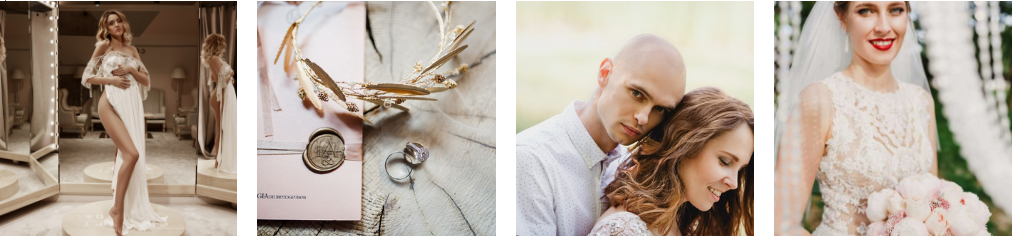
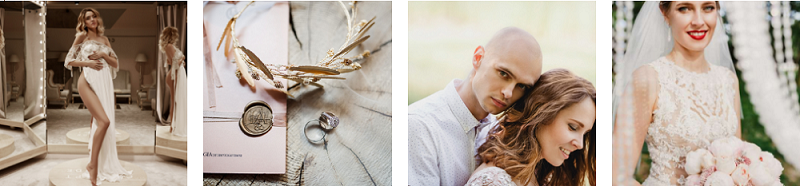
burn

diff --git a/styles.css b/styles.css
@@ -84,6 +84,9 @@ nav{
 	background-size: cover;
 	background-position: bottom;
 	background-repeat: no-repeat;
+	text-align: center;
+
+	
 }
 .top-slide h2{
 	background: #F5F5F5;
@@ -101,14 +104,16 @@ nav{
 
 .bg1{
 	width: 100%;
-	height: 500px;
+	height: 520px;
 	background: #ffffff;
+	text-align: center;
     
 }
 .bg2{
 	width: 100%;
 	height: 400px;
     background: #DCDCDC;  
+    text-align: center;
 }
 .bg3{
 	width: 100%;
@@ -126,8 +131,10 @@ nav{
 	background: #D3D3D3; 
 }
 .me{
-	margin-top: -380px;
-	margin-left: 880px;
+	margin-top: -320px;
+	margin-left: 1000px;
+	text-align: left;
+	float: left;
 }
 .top-slide4 h2{
 	background: #F5F5F5;
@@ -199,11 +206,13 @@ nav{
 }
 .social {
 	font-size: 15px;
-	margin-left: 640px;
+	margin-left: 720px;
 }
 .port {
 	margin-top: 30px;
-	margin-left: 120px;
+	margin-left: 0px;
+	text-align: center;
+	width: 100%;
 }
 .text-port{
 	font-size: 15px;
@@ -216,16 +225,17 @@ nav{
 }
 .me21{
 	margin-top: 0px;
-	margin-left: 550px;
+	margin-left: 0px;
+	text-align: center;
 }
 .me222{
-	margin-top: 30px;
+	margin-top: 20px;
 	border-radius: 100px;
 	box-shadow: 0 0 7px #666;
 }
 
 .text-port2{
-	margin-top: 30px;
+	margin-top: 10px;
 	text-shadow: 0 0 7px #666;
 }
 .text-port1{
@@ -233,4 +243,22 @@ nav{
 }
 .text-port19{
 	line-height: 3;
+}
+.flexible-image{
+	max-width: 100%;
+}
+
+img {
+  max-width: 100%;
+  display: inline-block;
+
+@media (min-width: 420px) {
+  img {
+    max-width: 48%;
+  }
+}
+@media (min-width: 760px) {
+  img {
+    max-width: 24%;
+  }
 }

diff --git a/index.html b/index.html
@@ -6,9 +6,9 @@
 	<link href="https://fonts.googleapis.com/css?family=Poppins" rel="stylesheet">
 	<link rel="stylesheet" href="https://use.fontawesome.com/releases/v5.1.0/css/all.css" integrity="sha384-lKuwvrZot6UHsBSfcMvOkWwlCMgc0TaWr+30HWe3a4ltaBwTZhyTEggF5tJv8tbt" crossorigin="anonymous">
 	<link rel="stylesheet" href="styles.css">
+	<meta>
 </head>
-<body>
-
+<body class="body2"> 
 <header>
 	<div class="header-container">
 		<div class="logo">
@@ -37,9 +37,7 @@
 		<div><h2>PHOTOGRAPHER</h2></div> 
 		<div><p>Enjoy every moment for life</p></div>
 		</section>
-<div class="me">
-			<img src="img/i.png" alt="me">
-	 	</div>
+      
 	 	<div class="wrapper-scroll-btn">
     <span>
         <span class="scrollup-btn">Вверх</span>
@@ -54,7 +52,7 @@
 			               
 	 	                 </div>
 	 	                 <div class="me21">
-			               <img src="img/plus.png" alt="me21">
+			               <img src="img/plus1.png" alt="me21">
 	 	                 </div>
                          <div class="text-port1">
                          <h2 align="center">Hello, I'm ANASTASIIA LUKINA</h2>
